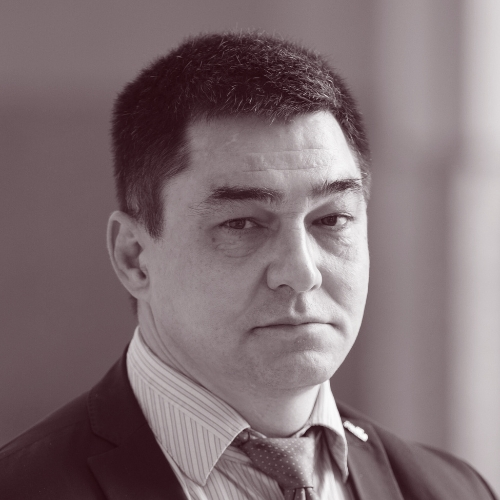
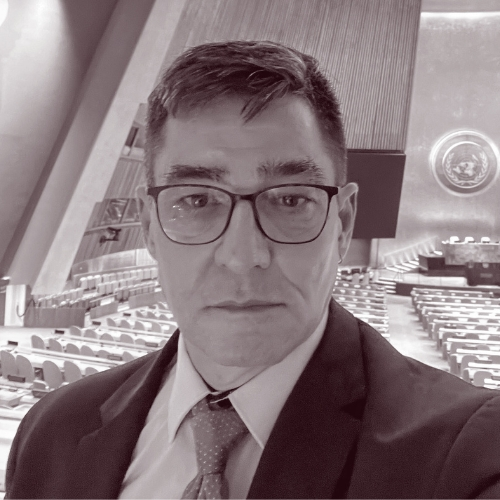
martynov

diff --git a/docs/index.html b/docs/index.html
@@ -392,6 +392,27 @@
 
         <div class="mb-5 d-lg-flex">
     <div class="col-3 col-xl-4 col-xxl-3 d-flex flex-wrap align-items-center">
+        <img class="rounded-circle img-person-size mb-lg-0 mb-4" alt="Кирилл Мартынов" src="../martynov.jpg" />
+    </div>
+    <div class="col-lg-10 col-xl-9 col-xxl-10 d-flex flex-wrap align-items-center">
+        <div>
+            <div class="d-flex flex-wrap align-items-center">
+                <h6 class="display-8 fw-bold me-2 ptserif">Кирилл Мартынов</h6>
+                <div class="mb-1 badge fw-normal text-success-emphasis bg-success-subtle border border-success-subtle rounded-0 " style="display: none;">
+                    <span style="font-size:1.2rem;">Онлайн</span>
+                </div>
+                <div class="mb-1 badge fw-normal text-success-emphasis bg-success-subtle border border-success-subtle rounded-0 " style="display: none;">
+                    <span style="font-size:1.2rem;">Модератор</span>
+                </div>
+            </div>
+            <h6 class="lead text-body-secondary pe-lg-4">Редактор «Новая газета Европа»</h6>
+            <h5 class="display-7 fw-bold ptserif"></h5>
+        </div>
+    </div>
+</div>
+
+        <div class="mb-5 d-lg-flex">
+    <div class="col-3 col-xl-4 col-xxl-3 d-flex flex-wrap align-items-center">
         <img class="rounded-circle img-person-size mb-lg-0 mb-4" alt="Максим Курников" src="../kurnikov.jpg" />
     </div>
     <div class="col-lg-10 col-xl-9 col-xxl-10 d-flex flex-wrap align-items-center">

diff --git a/docs/en/index.html b/docs/en/index.html
@@ -393,6 +393,27 @@
         </div>
     </div>
 </div>
+        
+        <div class="mb-5 d-lg-flex">
+    <div class="col-3 col-xl-4 col-xxl-3 d-flex flex-wrap align-items-center">
+        <img class="rounded-circle img-person-size mb-lg-0 mb-4" alt="Kirill Martynov" src="../martynov.jpg" />
+    </div>
+    <div class="col-lg-10 col-xl-9 col-xxl-10 d-flex flex-wrap align-items-center">
+        <div>
+            <div class="d-flex flex-wrap align-items-center">
+                <h6 class="display-8 fw-bold me-2 ptserif">Kirill Martynov</h6>
+                <div class="mb-1 badge fw-normal text-success-emphasis bg-success-subtle border border-success-subtle rounded-0 " style="display: none;">
+                    <span style="font-size:1.2rem;">Online</span>
+                </div>
+                <div class="mb-1 badge fw-normal text-success-emphasis bg-success-subtle border border-success-subtle rounded-0 " style="display: none;">
+                    <span style="font-size:1.2rem;">Moderator</span>
+                </div>
+            </div>
+            <h6 class="lead text-body-secondary pe-lg-4">Editor at Novaya Gazeta Europe</h6>
+            <h5 class="display-7 fw-bold ptserif"></h5>
+        </div>
+    </div>
+</div>
 
         <div class="mb-5 d-lg-flex">
     <div class="col-3 col-xl-4 col-xxl-3 d-flex flex-wrap align-items-center">

diff --git a/themes/conference2023_theme/layouts/en/list.html b/themes/conference2023_theme/layouts/en/list.html
@@ -95,6 +95,8 @@
         {{partial "lists/speaker_en.html" (dict "name" "Vasily Zharkov" "image" "zharkov" "affiliation" "Political analyst, Associate Professor at the European Humanities University in Vilnius" "theme" "Trump, Putin, and the Structure of U.S.-Russia Relations in 2025") }}
 
         {{partial "lists/speaker_en.html" (dict "name" "Andreas Umland" "image" "umland" "affiliation" "Analyst at the Stockholm Centre for Eastern European Studies (SCEEUS) at the Swedish Institute of International Affairs, Associate Professor of Political Science at the National University of Kyiv-Mohyla Academy" "theme" "Security Guarantee Issues for Ukraine" "badgeparamsp" "d-block") }}
+        
+        {{partial "lists/speaker_en.html" (dict "name" "Kirill Martynov" "image" "martynov" "affiliation" "Editor at Novaya Gazeta Europe" "theme" "") }}
 
         {{partial "lists/speaker_en.html" (dict "name" "Maxim Kurnikov" "image" "kurnikov" "affiliation" "Senior editor of Bild, head of the media «Echo»" "theme" "" "additional" "d-block") }}
 

diff --git a/themes/conference2023_theme/layouts/_default/home.html b/themes/conference2023_theme/layouts/_default/home.html
@@ -91,6 +91,8 @@
 
         {{partial "lists/speaker.html" (dict "name" "Василий Жарков" "image" "zharkov" "affiliation" "Политический аналитик, доцент Европейского гуманитарного университета в Вильнюсе" "theme" "Трамп, Путин и структура американо-российских отношений в 2025 году") }}
 
+        {{partial "lists/speaker.html" (dict "name" "Кирилл Мартынов" "image" "martynov" "affiliation" "Редактор «Новая газета Европа»" "theme" "") }}
+
         {{partial "lists/speaker.html" (dict "name" "Максим Курников" "image" "kurnikov" "affiliation" "Ведущий редактор Bild, руководитель медиа «Эхо»" "theme" "" "additional" "d-block") }}
 
         {{partial "youtube.html" (dict "video" "yjISfgTlLNU") }}
